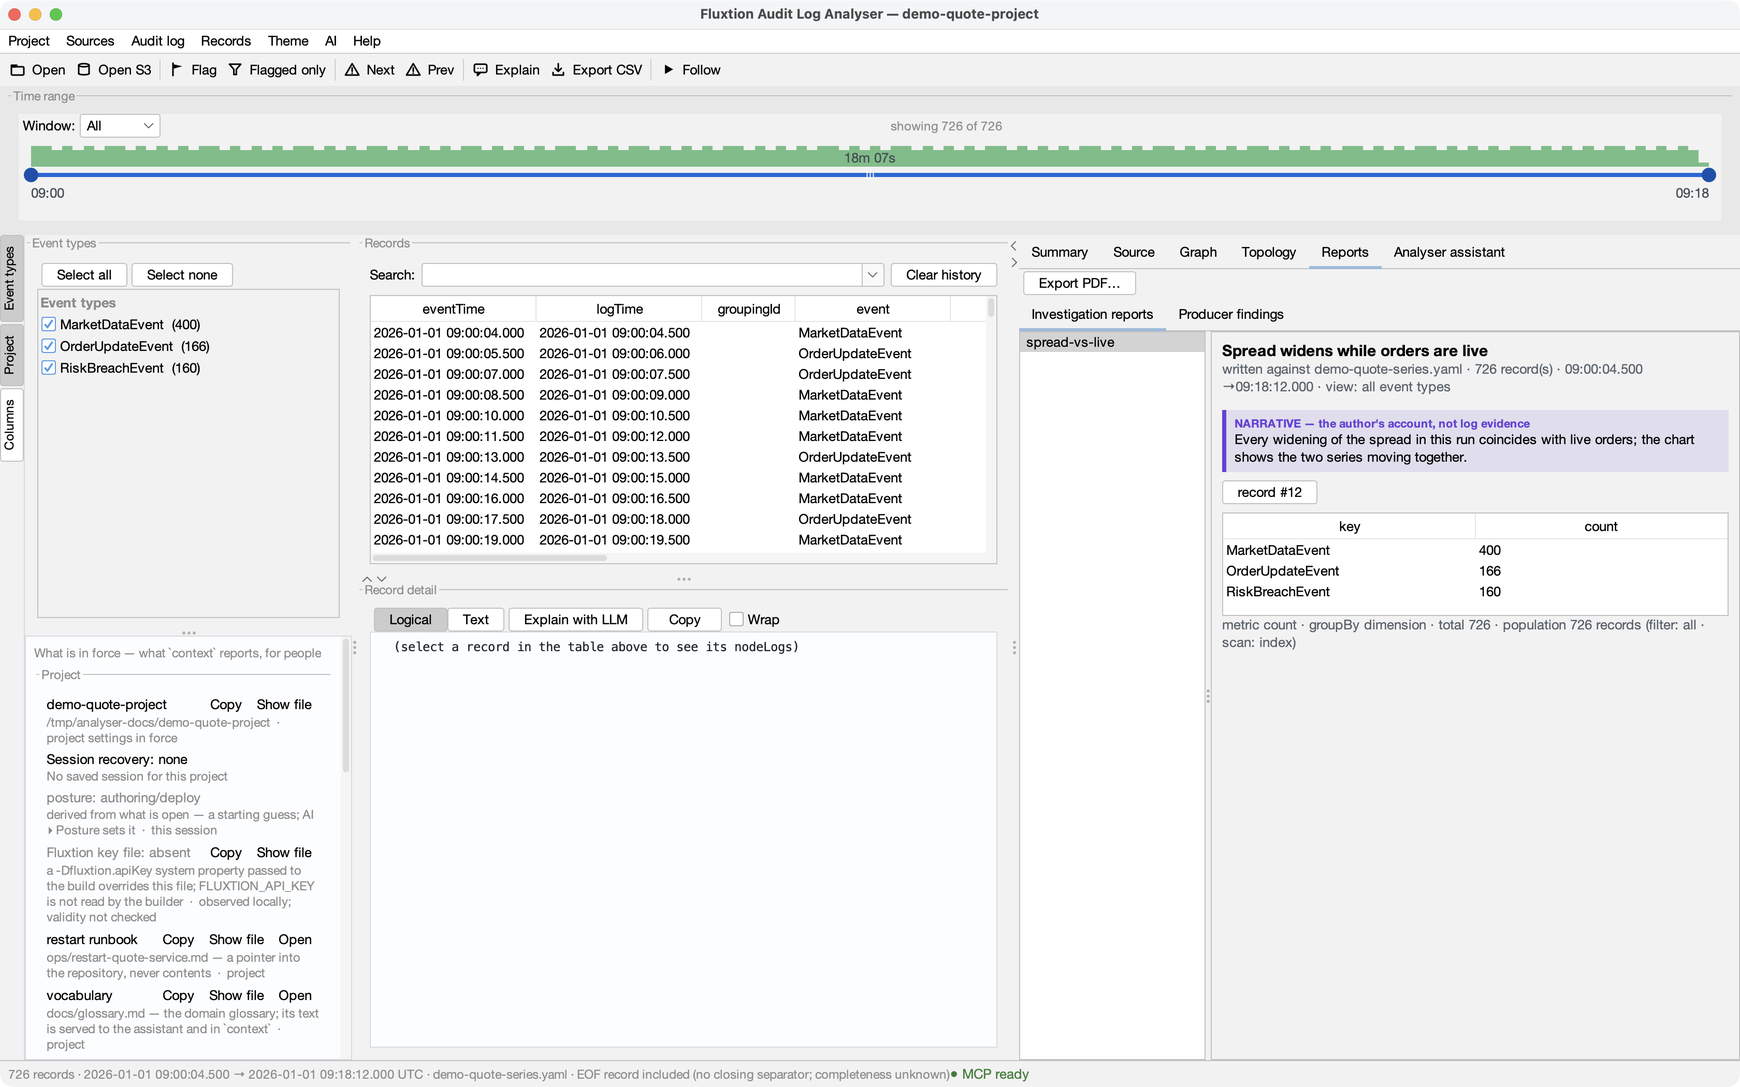
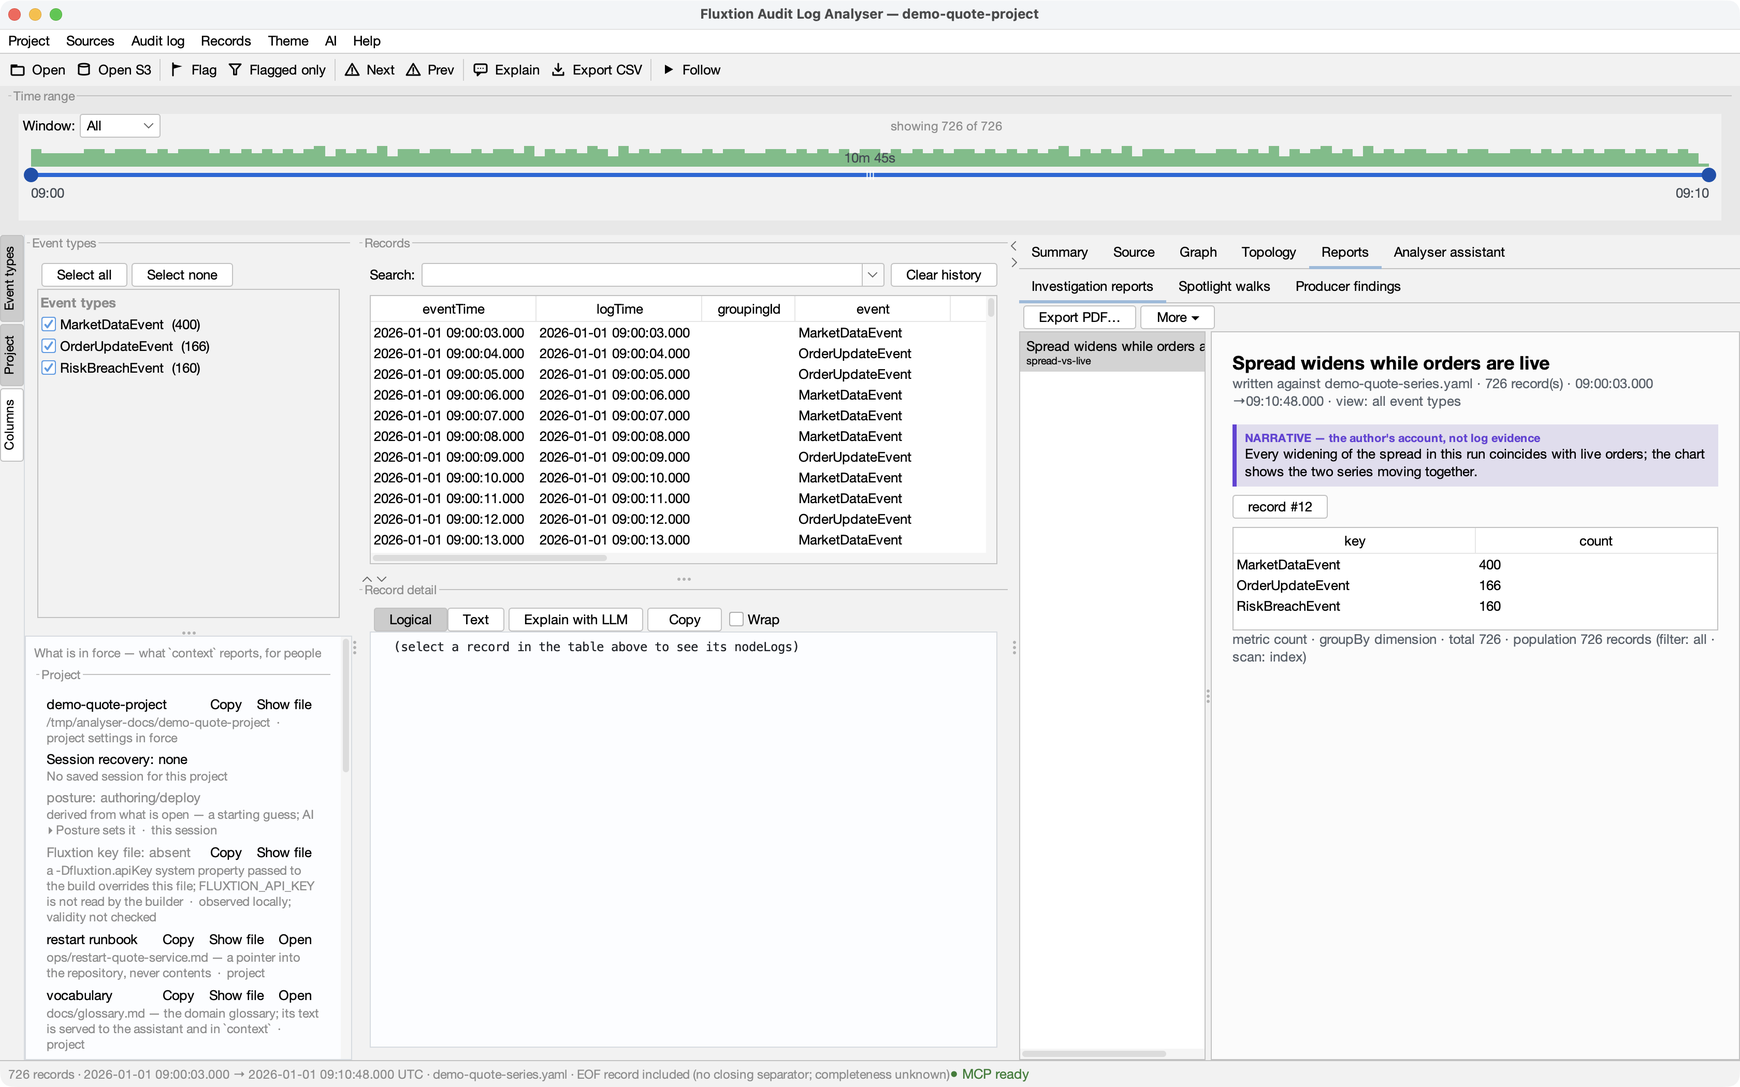
docs: refresh DEMO conversations and release smoke checks

diff --git a/tools/capture-conversations.py b/tools/capture-conversations.py
@@ -28,8 +28,16 @@ NOAUDIT_GRAPHML = REPO / "src/test/resources/topology/demo-quote-processor-noaud
 def shorten(v, depth=0):
     """Trim an echo for the page: paths made neutral, long lists cut, long strings cut, depth bounded."""
     if isinstance(v, str):
-        for prefix, label in ((str(cd.DEMO_PROJECT), "…/demo-quote-project"), (str(cd.EXPORT_DIR), "<exchange-dir>"),
-                              (str(REPO), "…/analyser")):
+        paths = ((cd.DEMO_PROJECT, "…/demo-quote-project"),
+                 (cd.EXPORT_DIR, "<exchange-dir>"), (REPO, "…/analyser"))
+        aliases = {(str(path), label) for path, label in paths}
+        aliases.update((str(path.resolve()), label) for path, label in paths)
+        # Java and Python can report the same macOS temporary path as /var or /private/var.
+        aliases.update(("/private" + prefix, label) for prefix, label in tuple(aliases)
+                       if prefix.startswith("/var/"))
+        aliases.update((prefix.removeprefix("/private"), label) for prefix, label in tuple(aliases)
+                       if prefix.startswith("/private/var/"))
+        for prefix, label in sorted(aliases, key=lambda item: len(item[0]), reverse=True):
             v = v.replace(prefix, label)
         return v if len(v) <= 110 else v[:107] + "…"
     if isinstance(v, bool) or v is None or isinstance(v, (int, float)):
@@ -175,7 +183,7 @@ def main():
 
     t.lines.append("<!-- GENERATED by tools/capture-conversations.py — edit the script, not this file. -->")
     t.lines.append("# Sample conversations — an LLM, MCP, and the analyser")
-    t.prose('> Screenshots refreshed for 1.20.0 with the **Project**, **Sources** and **Audit log** menus; see [Getting started](getting-started.md#finding-the-right-menu).')
+    t.prose('> Screenshots refreshed from the current analyser with the compact Graph and Reports controls; see [Getting started](getting-started.md#finding-the-right-menu).')
     t.prose("Seven short conversations on the demo set that ships in the jar. The **tool calls and echoes are collapsed** — open one to see the wiring. The **asks** and the **agent's answers** "
             "are written by hand; **every tool call and every echo between them was recorded from a real run** by "
             "`tools/capture-conversations.py`, under the same isolated home the screenshots come from — so when a "
@@ -195,15 +203,21 @@ def main():
     t.prose("Ten records in the snapshot, including the EOF record without a closing separator; completeness remains unknown. The graph declares the logged nodes. Silence still does not prove non-execution. The "
             "agent starts wide, then narrows.")
     t.call("aggregate", {"groupBy": "dimension"})
-    t.call("read", {"recordIndex": 7}, show=["records", "record", "event", "logTime", "nodeLogs"])
+    read = t.call("read", {"recordIndex": 7}, show=["records", "record", "event", "logTime", "nodeLogs"])
+    payload = {key: value for key, value in read.items() if key not in ("ok", "action")}
+    if len(payload) == 1 and isinstance(next(iter(payload.values())), dict):
+        payload = next(iter(payload.values()))
+    rows = payload.get("records", [])
+    assert [(row.get("recordIndex"), row.get("logTime")) for row in rows
+            if row.get("recordIndex") in (6, 7)] == [(6, 1767258000180), (7, 1767258000180)], rows
     t.call("flag", {"recordIndexes": [6, 7], "note": "live orders reached the risk limit — the breach that follows is routine here, but the spread moved first"})
-    t.agent("At 09:00:00.300 a RiskBreachEvent fired: `breachHandler` recorded `breachedOn: ord-2` with two live "
-            "orders. The cycle before it (09:00:00.270) is the one that took liveOrders to the limit — I've flagged "
+    t.agent("At 09:00:00.180 a RiskBreachEvent fired: `breachHandler` recorded `breachedOn: ord-2` with two live "
+            "orders. The immediately preceding record has the same timestamp and took liveOrders to the limit — I've flagged "
             "both with a note; they're the yellow rows in your table and the *Flagged only* toggle shows just them. "
             "The final EOF record is included; a missing closing separator does not establish whether the file is whole.",
             cites=["breachedOn", "ord-2", "riskMonitor"])
     cd.act(ep, "goto", {"recordIndex": 7, "reveal": True})
-    t.shot("conv-what-happened.png", "The two flagged records, the note in the detail pane — the agent's answer as things you can click")
+    t.shot("conv-what-happened.png", "The two flagged records and their note on the topology — the agent's answer as things you can click")
 
     # 2 ---------------------------------------------------------------------------------------------
     t.heading("2 · \"Which nodes never ran?\" — coverage that counts only what could log")
@@ -223,15 +237,15 @@ def main():
 
     # 3 ---------------------------------------------------------------------------------------------
     t.heading("3 · \"Why is this number what it is?\" — one value followed back through the graph")
-    t.you("The spread in the 09:00:00.270 cycle is 0.011. Show me where that comes from.")
+    t.you("The spread in the 09:00:00.180 order-update cycle is 0.01101. Show me where that comes from.")
     t.call("topology", {"select": "quotePublisher", "scope": "routes"}, show=["selected", "scope", "visibleNodes", "totalNodes", "routeBound", "focus"])
     t.call("goto", {"recordIndex": 6, "reveal": True}, show=["recordIndex", "event", "logTime"])
     t.call("topology", {"step": 2}, show=["position", "currentNode", "rowCount", "atEntry", "orderMeaningful"])
     t.agent("`quotePublisher.spread` is computed from `spreadCalculator`, which listens to `priceListener` — the "
-            "Topology tab is now focused on exactly those routes, and I've stepped the 09:00:00.270 cycle to the "
+            "Topology tab is now focused on exactly those routes, and I've stepped the 09:00:00.180 order-update cycle to the "
             "second node it dispatched — `quotePublisher`, after `orderTracker`. `spreadCalculator` cannot write audit output at "
             "all (conversation 2), so the "
-            "0.011 you see is `quotePublisher` reporting a value it was handed, and no audit log will ever let us "
+            "0.01101 you see is `quotePublisher` reporting a value it was handed, and no audit log will ever let us "
             "trace it further — that is a property of the build, not of this run. Position within the cycle *is* dispatch order here (`orderMeaningful: true`), so the sequence "
             "you're looking at is causal.",
             cites=["quotePublisher", "orderMeaningful"])
@@ -327,7 +341,7 @@ def main():
     if cd._failed:
         # TWO signals, not one (tracker M46.11; release-process §4.0): the scenarios all completed — every verb
         # answered (a failed screenshot VERB exits above) and every cited claim was found — so the pre-release
-        # checklist's "all five scenarios must complete" line is MET. What did not happen is the native image
+        # checklist's "all seven scenarios must complete" line is MET. What did not happen is the native image
         # capture, which needs macOS Screen Recording for the terminal. That is a warning on a machine without
         # the grant, and a failure only when the caller asked for the images (--require-images).
         print(f"WARNING: {len(cd._failed)} image(s) NOT regenerated (no native capture available): {cd._failed}\n"

diff --git a/tools/verify-session-restart.py b/tools/verify-session-restart.py
@@ -33,6 +33,11 @@ public class RestartProbe {
 }
 '''
 
+
+def same_path(observed, expected):
+    """macOS may report /var from Java and /private/var from Python for one file."""
+    return observed is not None and Path(observed).resolve() == expected.resolve()
+
 class Process(api.Analyser):
     def __init__(self, jar, home, output, shim, args=()):
         super().__init__(str(jar), str(home), output.name)
@@ -136,10 +141,10 @@ def main():
         record('after-relaunch-offer', offered)
         a.ok('open', restore='last')
         restored = a.wait(lambda c: c.get('restoration', {}).get('state') == 'finished')
-        assert restored['log']['path'] == str(log.resolve()), restored
+        assert same_path(restored['log']['path'], log), restored
         assert restored['log']['openedBy'] == 'explicit session restore', restored
-        assert restored['design']['file'] == str(design.resolve()), restored
-        assert restored['design']['diagnosticsFile'] == str(diagnostics.resolve()), restored
+        assert same_path(restored['design']['file'], design), restored
+        assert same_path(restored['design']['diagnosticsFile'], diagnostics), restored
         assert restored['topology']['contextDepth'] == 1, restored
         assert restored['selection'] == before['selection'], restored
         assert restored['topology']['recordIndex'] == 5, restored
@@ -147,13 +152,13 @@ def main():
     alternate = Path(shutil.copy(log, project / 'explicit.yml'))
     with Process(args.jar, home, work / 'third.log', shim, [str(alternate)]) as a:
         pids.append(a.proc.pid)
-        offered = a.wait(lambda c: c.get('log', {}).get('path') == str(alternate.resolve())
+        offered = a.wait(lambda c: same_path(c.get('log', {}).get('path'), alternate)
                          and c.get('restoration', {}).get('state') == 'offered')
         assert 'file' not in offered.get('design', {}), offered
         a.ok('open', restore='dismiss')
         dismissed = a.context()
         assert dismissed['restoration']['state'] == 'dismissed', dismissed
-        assert dismissed['log']['path'] == str(alternate.resolve()), dismissed
+        assert same_path(dismissed['log']['path'], alternate), dismissed
         assert not a.act('open', restore='last').get('ok'), 'Dismissed offer was accepted'
         record('explicit-cli-and-dismiss', dismissed)
     assert len(set(pids)) == 3, pids

diff --git a/tools/verify-m64-spotlight.py b/tools/verify-m64-spotlight.py
@@ -65,18 +65,20 @@ def main():
     check = v.Checks()
     try:
         with v.Analyser(jars[-1], home, "spotlight") as a:
-            print("with NOTHING open - a tutor's first 'look here' happens on a fresh start")
+            print("with NOTHING open - the full-window Start page hides workspace targets")
             for target in ("status", "toolbar:open", "tab:topology", "project"):
                 r = a.act("spotlight", target=target, caption="look here first")
-                check("%s lights with nothing open" % target, lit(r) and area(r) > 0, r)
+                reason = json.dumps(r)
+                check("%s refuses while Start hides it" % target,
+                      r.get("ok") is False and ("not on screen" in reason or "hidden" in reason), r)
             ctx = a.context()
-            check("context reports the live spotlight, on a fresh start (above the early return)",
-                  targets(ctx) == ["project"], ctx.get("spotlight"))
+            check("context does not report a hidden workspace spotlight on Start",
+                  "spotlight" not in ctx, ctx.get("spotlight"))
             r = a.act("spotlight", target="topology:node:priceListener")
             check("a node with no topology open is REFUSED with a reason to act on, never lit on nothing",
                   r.get("ok") is False and "open {graphml}" in json.dumps(r), r)
-            check("and the refused request left the standing spotlight alone",
-                  targets(a.context()) == ["project"], a.context().get("spotlight"))
+            check("and the refused request left no spotlight behind",
+                  "spotlight" not in a.context(), a.context().get("spotlight"))
 
             print("an unknown target names the vocabulary")
             r = a.act("spotlight", target="topolgy:node:x")

diff --git a/docs/site/sample-conversations.md b/docs/site/sample-conversations.md
@@ -1,7 +1,8 @@
 <!-- GENERATED by tools/capture-conversations.py — edit the script, not this file. -->
 # Sample conversations — an LLM, MCP, and the analyser
 
-> Screenshots refreshed for 1.20.0 with the **Project**, **Sources** and **Audit log** menus; see [Getting started](getting-started.md#finding-the-right-menu).
+> Screenshots refreshed from the current analyser with the compact Graph and Reports controls; see [Getting started](getting-started.md#finding-the-right-menu).
+
 
 Seven short conversations on the demo set that ships in the jar. The **tool calls and echoes are collapsed** — open one to see the wiring. The **asks** and the **agent's answers** are written by hand; **every tool call and every echo between them was recorded from a real run** by `tools/capture-conversations.py`, under the same isolated home the screenshots come from — so when a verb's echo changes, this page changes with it rather than quietly going stale. Each conversation ends with what the person sees, because the answer is meant to land in the analyser, not in the chat (*The shared research canvas*).
 
@@ -24,21 +25,22 @@ The client discovers one tool per verb — `analyser_context`, `analyser_aggrega
         "openedFrom": "…/analyser/src/test/resources/topology/demo-quote-audit.yaml",
         "records": 10,
         "sizeBytes": 4053,
-        "from": 1767258000090,
-        "to": 1767258000360,
+        "from": 1767258000060,
+        "to": 1767258000230,
         "openedBy": "the command line that started this analyser",
         "freshness": {
           "members": [
             {
-              "state": "unchanged-metadata",
+              "loaded": "{…}",
               "onDisk": "{…}",
-              "loaded": "{…}"
+              "state": "unchanged-metadata"
             }
           ],
-          "reload": "explicitly reopen the same path; no automatic replacement",
+          "state": "unchanged-metadata",
           "basis": "size, modification time and file identity; unchanged metadata does not prove identical bytes",
-          "state": "unchanged-metadata"
+          "reload": "explicitly reopen the same path; no automatic replacement"
         },
+        "generation": 1,
         "following": false,
         "supportsFollow": true,
         "trailingRecordsIncluded": 1,
@@ -71,6 +73,8 @@ Ten records in the snapshot, including the EOF record without a closing separato
       "metric": "count",
       "groupBy": "dimension",
       "total": 10,
+      "firstRecordIndex": 0,
+      "lastRecordIndex": 9,
       "buckets": [
         {
           "key": "OrderUpdateEvent",
@@ -108,20 +112,20 @@ Ten records in the snapshot, including the EOF record without a closing separato
         {
           "recordIndex": 5,
           "byteOffset": 2131,
-          "logTime": 1767258000240,
-          "text": "eventLogRecord: \n    eventTime: 1767258000230\n    logTime: 1767258000240\n    groupingId: null\n    event: Or…"
+          "logTime": 1767258000160,
+          "text": "eventLogRecord: \n    eventTime: 1767258000160\n    logTime: 1767258000160\n    groupingId: null\n    event: Or…"
         },
         {
           "recordIndex": 6,
           "byteOffset": 2541,
-          "logTime": 1767258000270,
-          "text": "eventLogRecord: \n    eventTime: 1767258000260\n    logTime: 1767258000270\n    groupingId: null\n    event: Or…"
+          "logTime": 1767258000180,
+          "text": "eventLogRecord: \n    eventTime: 1767258000180\n    logTime: 1767258000180\n    groupingId: null\n    event: Or…"
         },
         {
           "recordIndex": 7,
           "byteOffset": 3019,
-          "logTime": 1767258000300,
-          "text": "eventLogRecord: \n    eventTime: 1767258000290\n    logTime: 1767258000300\n    groupingId: null\n    event: Ri…"
+          "logTime": 1767258000180,
+          "text": "eventLogRecord: \n    eventTime: 1767258000180\n    logTime: 1767258000180\n    groupingId: null\n    event: Ri…"
         },
         "… (+2 more)"
       ]
@@ -143,10 +147,10 @@ Ten records in the snapshot, including the EOF record without a closing separato
     ```
 
 
-> **Agent:** At 09:00:00.300 a RiskBreachEvent fired: `breachHandler` recorded `breachedOn: ord-2` with two live orders. The cycle before it (09:00:00.270) is the one that took liveOrders to the limit — I've flagged both with a note; they're the yellow rows in your table and the *Flagged only* toggle shows just them. The final EOF record is included; a missing closing separator does not establish whether the file is whole.
+> **Agent:** At 09:00:00.180 a RiskBreachEvent fired: `breachHandler` recorded `breachedOn: ord-2` with two live orders. The immediately preceding record has the same timestamp and took liveOrders to the limit — I've flagged both with a note; they're the yellow rows in your table and the *Flagged only* toggle shows just them. The final EOF record is included; a missing closing separator does not establish whether the file is whole.
 
 
-![The two flagged records, the note in the detail pane — the agent's answer as things you can click](assets/conv-what-happened.png)
+![The two flagged records and their note on the topology — the agent's answer as things you can click](assets/conv-what-happened.png)
 
 
 ## 2 · "Which nodes never ran?" — coverage that counts only what could log
@@ -164,11 +168,11 @@ Ten records in the snapshot, including the EOF record without a closing separato
       "uncovered": 0,
       "ratio": 1.0,
       "excludedFromDenominator": {
-        "spreadCalculator": "this class cannot reach an audit logger at all — it declares no supertype, so it has no auditLog to write with",
         "MarketDataEvent": "an event class — data entering the graph, not code that runs",
-        "QuoteControl": "an exported service interface — an entry point, not a node that logs",
         "OrderUpdateEvent": "an event class — data entering the graph, not code that runs",
-        "RiskBreachEvent": "an event class — data entering the graph, not code that runs"
+        "QuoteControl": "an exported service interface — an entry point, not a node that logs",
+        "RiskBreachEvent": "an event class — data entering the graph, not code that runs",
+        "spreadCalculator": "this class cannot reach an audit logger at all — it declares no supertype, so it has no auditLog to write with"
       },
       "excludedNote": "excluded 5 declared item(s) that can never write audit output: 3 event class(es), 1 exported service(s), 1 …"
     }
@@ -183,7 +187,7 @@ Ten records in the snapshot, including the EOF record without a closing separato
 ## 3 · "Why is this number what it is?" — one value followed back through the graph
 
 
-> **You:** The spread in the 09:00:00.270 cycle is 0.011. Show me where that comes from.
+> **You:** The spread in the 09:00:00.180 order-update cycle is 0.01101. Show me where that comes from.
 
 
 ??? example "→ `analyser_topology`"
@@ -224,7 +228,7 @@ Ten records in the snapshot, including the EOF record without a closing separato
     ```
 
 
-> **Agent:** `quotePublisher.spread` is computed from `spreadCalculator`, which listens to `priceListener` — the Topology tab is now focused on exactly those routes, and I've stepped the 09:00:00.270 cycle to the second node it dispatched — `quotePublisher`, after `orderTracker`. `spreadCalculator` cannot write audit output at all (conversation 2), so the 0.011 you see is `quotePublisher` reporting a value it was handed, and no audit log will ever let us trace it further — that is a property of the build, not of this run. Position within the cycle *is* dispatch order here (`orderMeaningful: true`), so the sequence you're looking at is causal.
+> **Agent:** `quotePublisher.spread` is computed from `spreadCalculator`, which listens to `priceListener` — the Topology tab is now focused on exactly those routes, and I've stepped the 09:00:00.180 order-update cycle to the second node it dispatched — `quotePublisher`, after `orderTracker`. `spreadCalculator` cannot write audit output at all (conversation 2), so the 0.01101 you see is `quotePublisher` reporting a value it was handed, and no audit log will ever let us trace it further — that is a property of the build, not of this run. Position within the cycle *is* dispatch order here (`orderMeaningful: true`), so the sequence you're looking at is causal.
 
 
 ![The routes into quotePublisher, the cycle stepped to its second node](assets/conv-why-this-number.png)
@@ -287,6 +291,7 @@ Ten records in the snapshot, including the EOF record without a closing separato
         {
           "name": "restart",
           "path": "ops/restart-quote-service.md",
+          "root": "…/demo-quote-project",
           "resolved": "…/demo-quote-project/ops/restart-quote-service.md",
           "exists": true,
           "from": "project",
@@ -364,6 +369,7 @@ Ten records in the snapshot, including the EOF record without a closing separato
         {
           "name": "restart",
           "path": "ops/restart-quote-service.md",
+          "root": "…/demo-quote-project",
           "resolved": "…/demo-quote-project/ops/restart-quote-service.md",
           "exists": true,
           "from": "project",
@@ -447,12 +453,13 @@ The deploy itself happens **outside the analyser**: the agent reads `ops/restart
         "path": "…/analyser/src/test/resources/topology/demo-quote-processor-noaudit.graphml",
         "graphNodes": 18,
         "authoredNodes": 10,
+        "authorshipBasis": "inferred",
         "copyComparison": {
-          "state": "pending",
           "roots": [
             "…/analyser/examples/fixture-generator/src/main/java",
             "…/analyser/src/test/resources/topology"
-          ]
+          ],
+          "state": "pending"
         },
         "pairing": "no log is open — nothing to check this graph against"
       }

diff --git a/docs/site/assets/README.md b/docs/site/assets/README.md
@@ -144,3 +144,8 @@ and both spotlight-walk themes. The Start page is now the full window, with acti
 no irrelevant menus or time-range control. The graph and report guide text was updated to match
 the captured controls. The image audit found only DEMO data and neutral temporary paths; no
 participant project or hosted assistant was used.
+
+The release preflight also regenerated the seven-scenario sample-conversation transcript and its
+five native `conv-*.png` captures against the same DEMO jar. Each image and the transcript diff
+were inspected; the authored timestamps now match the refreshed DEMO fixture, and temporary
+exchange paths are neutralized in the published echoes.
